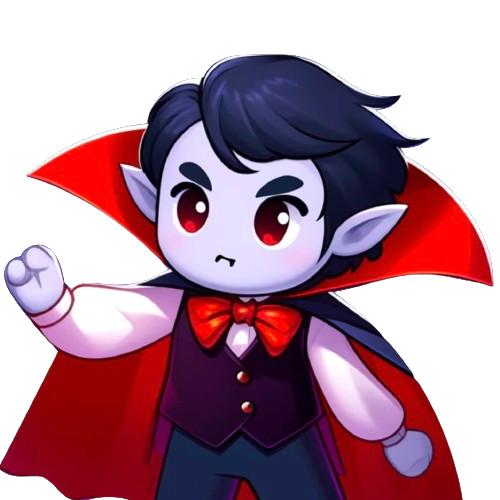
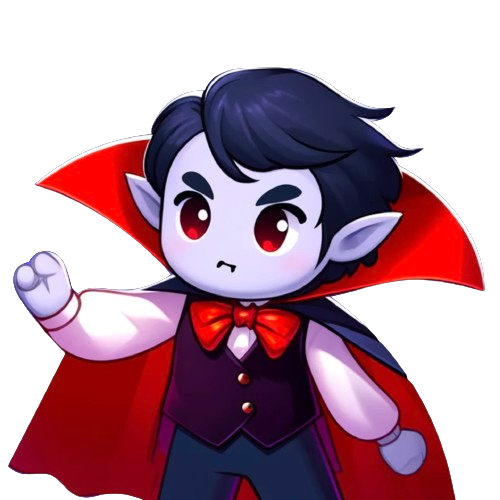
feat: 프로필 사진을 비율 유지하며 프레임에 완전히 채우기
- 사진의 너비가 긴 경우 높이 기준, 높이가 긴 경우 너비 기준으로 채움

diff --git a/FE/css/WaitingRoomPage/waitingRoomPage.css b/FE/css/WaitingRoomPage/waitingRoomPage.css
@@ -193,15 +193,18 @@
 	box-sizing: border-box;
 	background: linear-gradient(to bottom, rgb(50, 26, 81), rgb(2, 4, 31));
 	filter: drop-shadow(0px 0px 10px rgba(255, 255, 255, 0.5));
+	overflow: hidden;
 }
 .avatarImgFrame.emptyFrame {
 	align-items: center;
 }
 
 .avatarImg {
-	width: 90%;
 	filter: blur(2px);
 	opacity: 50%;
+	width: 100%;
+	height: 100%;
+	object-fit: cover;
 }
 .avatarImg.on {
 	filter: blur(0px);

diff --git a/FE/css/ProfilePage/matchLog.css b/FE/css/ProfilePage/matchLog.css
@@ -150,8 +150,9 @@
 
 .playerAvatarImg{
     width: 100%;
-    height: 100%;
-	z-index: 300;
+	height: 100%;
+	object-fit: cover;
+    z-index: 300;
 }
 
 .noAvatarRed{

diff --git a/FE/css/ChattingPage/friendList.css b/FE/css/ChattingPage/friendList.css
@@ -49,6 +49,8 @@
 }
 .chatContainer .avatarImg {
 	width: 100%;
+	height: 100%;
+	object-fit: cover;
 }
 .chatContainer .activeState {
 	position: absolute;

diff --git a/FE/css/ProfilePage/profilePage.css b/FE/css/ProfilePage/profilePage.css
@@ -34,8 +34,9 @@
 }
 
 .avatarImg{
-    width: 100%;
-    height: 100%;
+	width: 100%;
+	height: 100%;
+	object-fit: cover;
 }
 
 #WinLossContainer{

diff --git a/FE/css/EditProfilePage/editProfilePage.css b/FE/css/EditProfilePage/editProfilePage.css
@@ -35,6 +35,8 @@
 
 #avatarImg {
 	width: 100%;
+	height: 100%;
+	object-fit: cover;
 }
 
 #avatarEditButton {

diff --git a/FE/css/FriendManagementPage/friendManagementPage.css b/FE/css/FriendManagementPage/friendManagementPage.css
@@ -169,6 +169,8 @@
 
 .avatarImg {
 	width: 100%;
+	height: 100%;
+	object-fit: cover;
 }
 
 .nickname {

diff --git a/FE/css/TournamentPage/tournamentPage.css b/FE/css/TournamentPage/tournamentPage.css
@@ -100,6 +100,8 @@
 
 .avatarImg {
 	width: 100%;
+	height: 100%;
+	object-fit: cover;
 }
 
 .crownImg {
